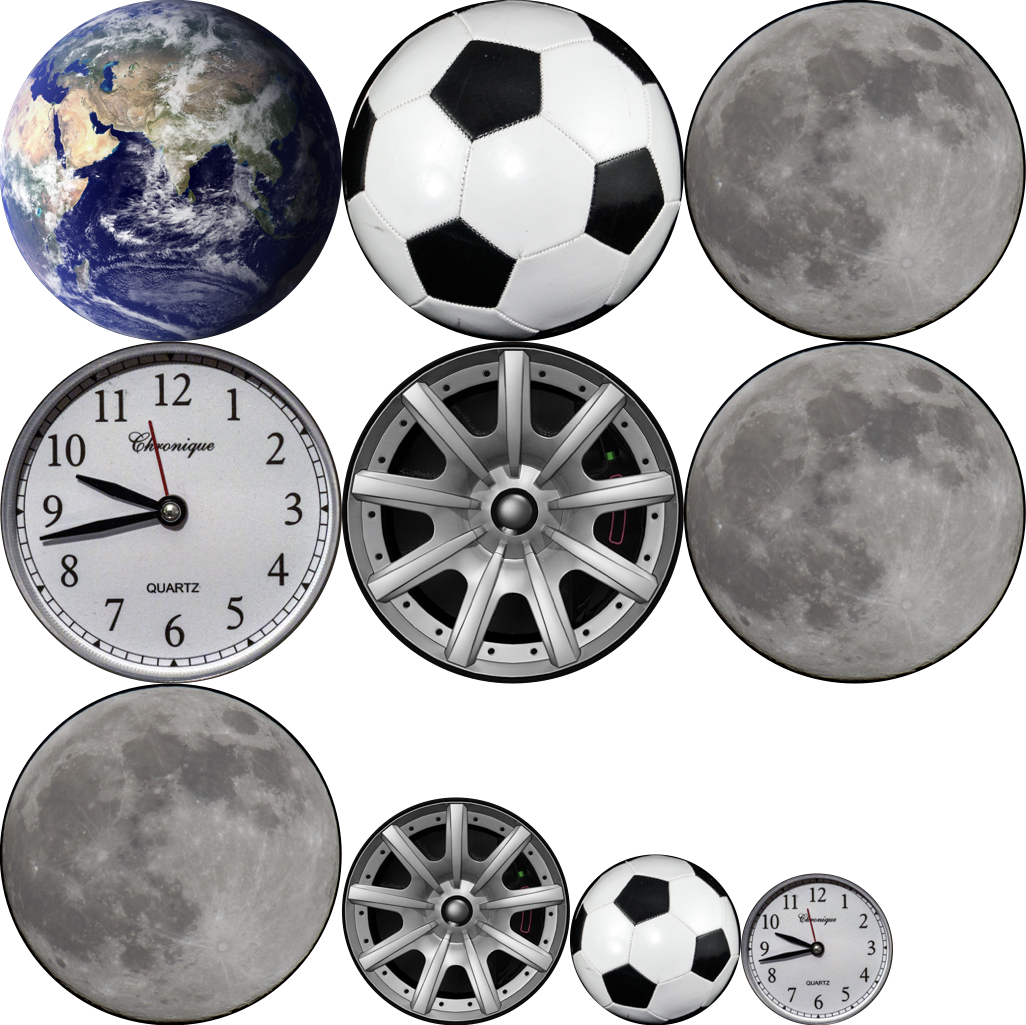
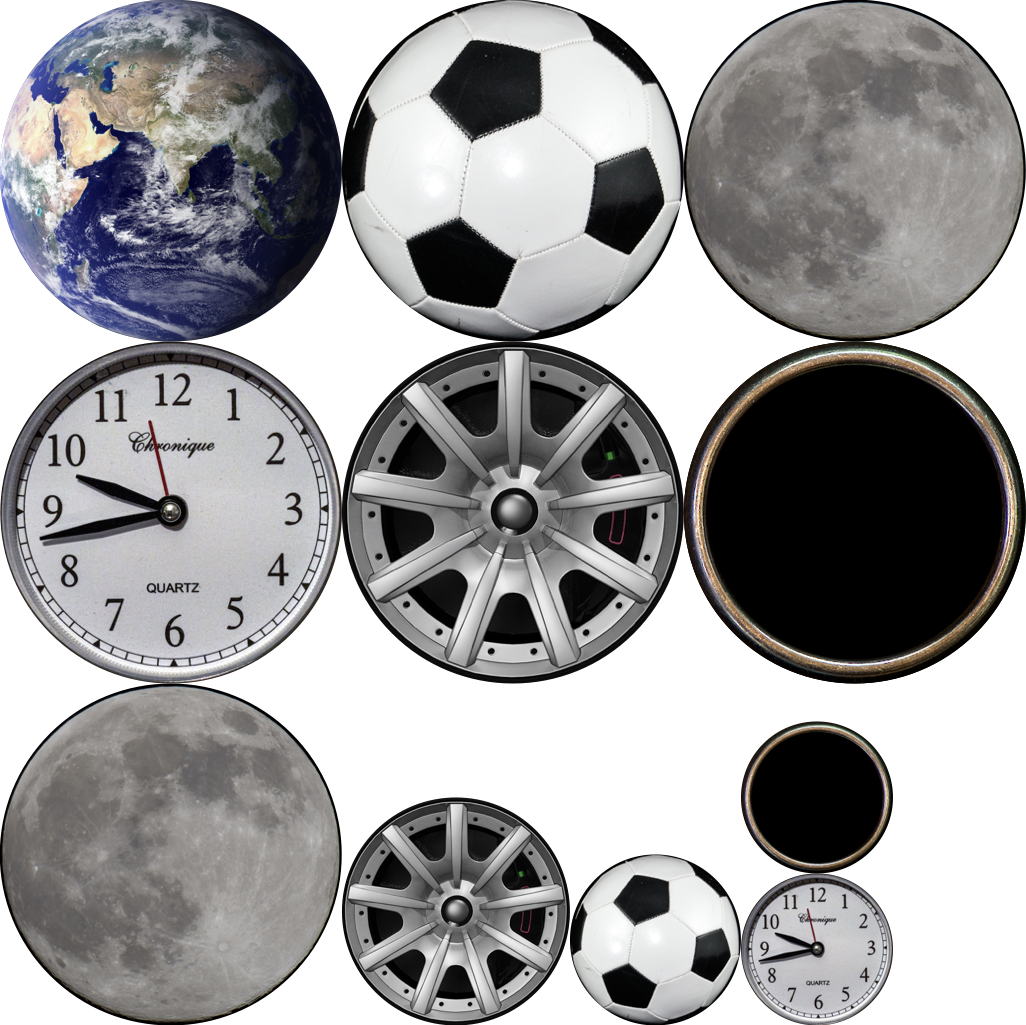
change clock to ring

Changed region(s): [[0.655, 0.3122, 1.0, 0.8741]]

diff --git a/src/Lessons/Math/Circle/content.js b/src/Lessons/Math/Circle/content.js
@@ -30,14 +30,14 @@ class Content extends LessonContent {
       title: 'Angle Measurement',
       setContent: () => centerV(`
         <p>
-          The first shape we will explore is one you see every time you look at the |_moon|, a |_wheel|, a |_ball| and a |_clock|.
+          The first shape we will explore is one you see every time you look at the |_moon|, a |_wheel|, a |_ball| and a |_ring|.
         </p>
         `),
       modifiers: {
         _moon: highlightWord('moon', '', 'english'),
         _wheel: highlightWord('wheel', '', 'english'),
         _ball: highlightWord('ball', '', 'english'),
-        _clock: highlightWord('clock', '', 'english'),
+        _ring: highlightWord('ring', '', 'english'),
       },
     });
     this.addSection({
@@ -56,7 +56,7 @@ class Content extends LessonContent {
         elements._moon,
         elements._wheel,
         elements._ball,
-        elements._clock,
+        elements._ring,
         elements._circleShape,
       ],
       setState: () => {
@@ -65,7 +65,7 @@ class Content extends LessonContent {
         elements._moon.transform.updateTranslation(layout.moon.center);
         elements._wheel.transform.updateTranslation(layout.wheel.center);
         elements._ball.transform.updateTranslation(layout.ball.center);
-        elements._clock.transform.updateTranslation(layout.clock.center);
+        elements._ring.transform.updateTranslation(layout.ring.center);
         elements._circleShape.transform.updateTranslation(layout.circleShape.center);
         onClickId('id_common', elements.toggleShape, [elements]);
       },
@@ -150,6 +150,22 @@ class Content extends LessonContent {
         </p>
         <p>
           Next we need to be able to describe it, by identifying some of its |_properties|.
+        </p>
+        `),
+      modifiers: {
+        _properties: highlightWord('properties', '', colors.diagram.text.keyword),
+      },
+    });
+    this.addSection({
+      setContent: () => centerV(`
+        <p>
+          Again, if we were naming the |_properties| today, their names would likely be more |_intuitive|.
+        </p>
+        <p>
+          In the past, the properties were named after objects or actions that were related to the property.
+        </p>
+        <p>
+          However, our names come from the names in past times, and while they had a more intuitive meaning at the time, today they are often less obj.
         </p>
         `),
       modifiers: {
@@ -383,6 +399,33 @@ class Content extends LessonContent {
         </p>
         <p>
           Today, we use this Latin root and call it the |_circumference|.
+        </p>
+        `,
+      modifiers: {
+        _length: highlightWord('length', '', 'english'),
+        _edge: highlightWord('edge', '', 'english'),
+        _circum: highlightWord('circum', '', 'latin'),
+        _ferre: highlightWord('ferre', '', 'latin'),
+        _Latin: highlightWord('Latin', '', 'latin'),
+        _circumferentia: highlightWord('circumferentia', '', 'latin'),
+        _carry: highlightWord('carry', '', 'english'),
+        _around: highlightWord('around', '', 'english'),
+        _circumference: actionWord('circumference', 'id_straight', colors.circle),
+      },
+      setState: () => {
+        elements._straightCircumference.showAll();
+        elements._straightCircumference.straighten(0);
+        onClickId('id_straight', elements.straightenCircumference, [elements]);
+      },
+      showOnly: [
+        circle,
+        elements._straightCircumference,
+      ],
+    });
+    this.addSection({
+      setContent: () => `
+        <p>
+          So, if we were discovering the circle today, we might have called it a ring, with properties spoke, width, and carry-around.
         </p>
         `,
       modifiers: {

diff --git a/src/Lessons/Math/Circle/diagramCollectionCircle.js b/src/Lessons/Math/Circle/diagramCollectionCircle.js
@@ -52,11 +52,11 @@ function makeMoon(shapes: Object) {
   );
 }
 
-function makeClock(shapes: Object) {
+function makeRing(shapes: Object) {
   return shapes.polygonFilled(
-    layout.circlePoints, layout.clock.radius, 0,
+    layout.circlePoints, layout.ring.radius, 0,
     layout.circlePoints, colors.anchor, new Point(0, 0),
-    '/static/circles.png', new Rect(0.7222, 0, 0.1481, 0.1481),
+    '/static/circles.png', new Rect(0.7222, 0.1481, 0.1481, 0.1481),
   );
 }
 
@@ -322,10 +322,10 @@ export type CircleCollectionType = {
   _ball: DiagramElementPrimative;
   _wheel: DiagramElementPrimative;
   _moon: DiagramElementPrimative;
-  _clock: DiagramElementPrimative;
+  _ring: DiagramElementPrimative;
   _wheelShape: DiagramElementPrimative;
   _moonShape: DiagramElementPrimative;
-  _clockShape: DiagramElementPrimative;
+  _ringShape: DiagramElementPrimative;
   _ballShape: DiagramElementPrimative;
   _circleShape: DiagramElementPrimative;
   _movingCircle: movingCircleType;
@@ -337,10 +337,10 @@ class CircleCollection extends DiagramElementCollection {
   _ball: DiagramElementPrimative;
   _wheel: DiagramElementPrimative;
   _moon: DiagramElementPrimative;
-  _clock: DiagramElementPrimative;
+  _ring: DiagramElementPrimative;
   _wheelShape: DiagramElementPrimative;
   _moonShape: DiagramElementPrimative;
-  _clockShape: DiagramElementPrimative;
+  _ringShape: DiagramElementPrimative;
   _ballShape: DiagramElementPrimative;
   _circleShape: DiagramElementPrimative;
   _movingCircle: movingCircleType;
@@ -366,14 +366,14 @@ class CircleCollection extends DiagramElementCollection {
 
     const { shapes } = diagram;
     this.add('circle', makeCircle(this.numSections, shapes));
-    this.add('clock', makeClock(shapes));
+    this.add('ring', makeRing(shapes));
     this.add('ball', makeBall(shapes));
     this.add('moon', makeMoon(shapes));
     this.add('wheel', makeWheel(shapes));
     this.add('wheelShape', makeCircleShape(shapes, layout.wheel.radius));
     this.add('moonShape', makeCircleShape(shapes, layout.moon.radius));
     this.add('ballShape', makeCircleShape(shapes, layout.ball.radius));
-    this.add('clockShape', makeCircleShape(shapes, layout.clock.radius));
+    this.add('ringShape', makeCircleShape(shapes, layout.ring.radius));
     this.add('circleShape', makeCircleShape(shapes, layout.wheel.radius));
     this.add('movingCircle', makeMovingCircle(shapes));
     this.add('straightCircumference', makeStraightCircumference(shapes));
@@ -561,7 +561,7 @@ class CircleCollection extends DiagramElementCollection {
     } else if (this.varState.shapeTurn === 2) {
       this.transitionShape(this._ballShape, layout.ball.center, layout.ball.radius);
     } else if (this.varState.shapeTurn === 3) {
-      this.transitionShape(this._clockShape, layout.clock.center, layout.clock.radius);
+      this.transitionShape(this._ringShape, layout.ring.center, layout.ring.radius);
     }
     this.varState.shapeTurn += 1;
     if (this.varState.shapeTurn > 3) {

diff --git a/src/Lessons/Math/Circle/layout.js b/src/Lessons/Math/Circle/layout.js
@@ -59,7 +59,7 @@ export default function lessonLayout() {
       radius: 0.4,
       center: new Point(0.3 - 0.2, -0.8 + 0.2),
     },
-    clock: {
+    ring: {
       radius: 0.3,
       center: new Point(1.1 - 0.2, -0.8 + 0.2),
     },
